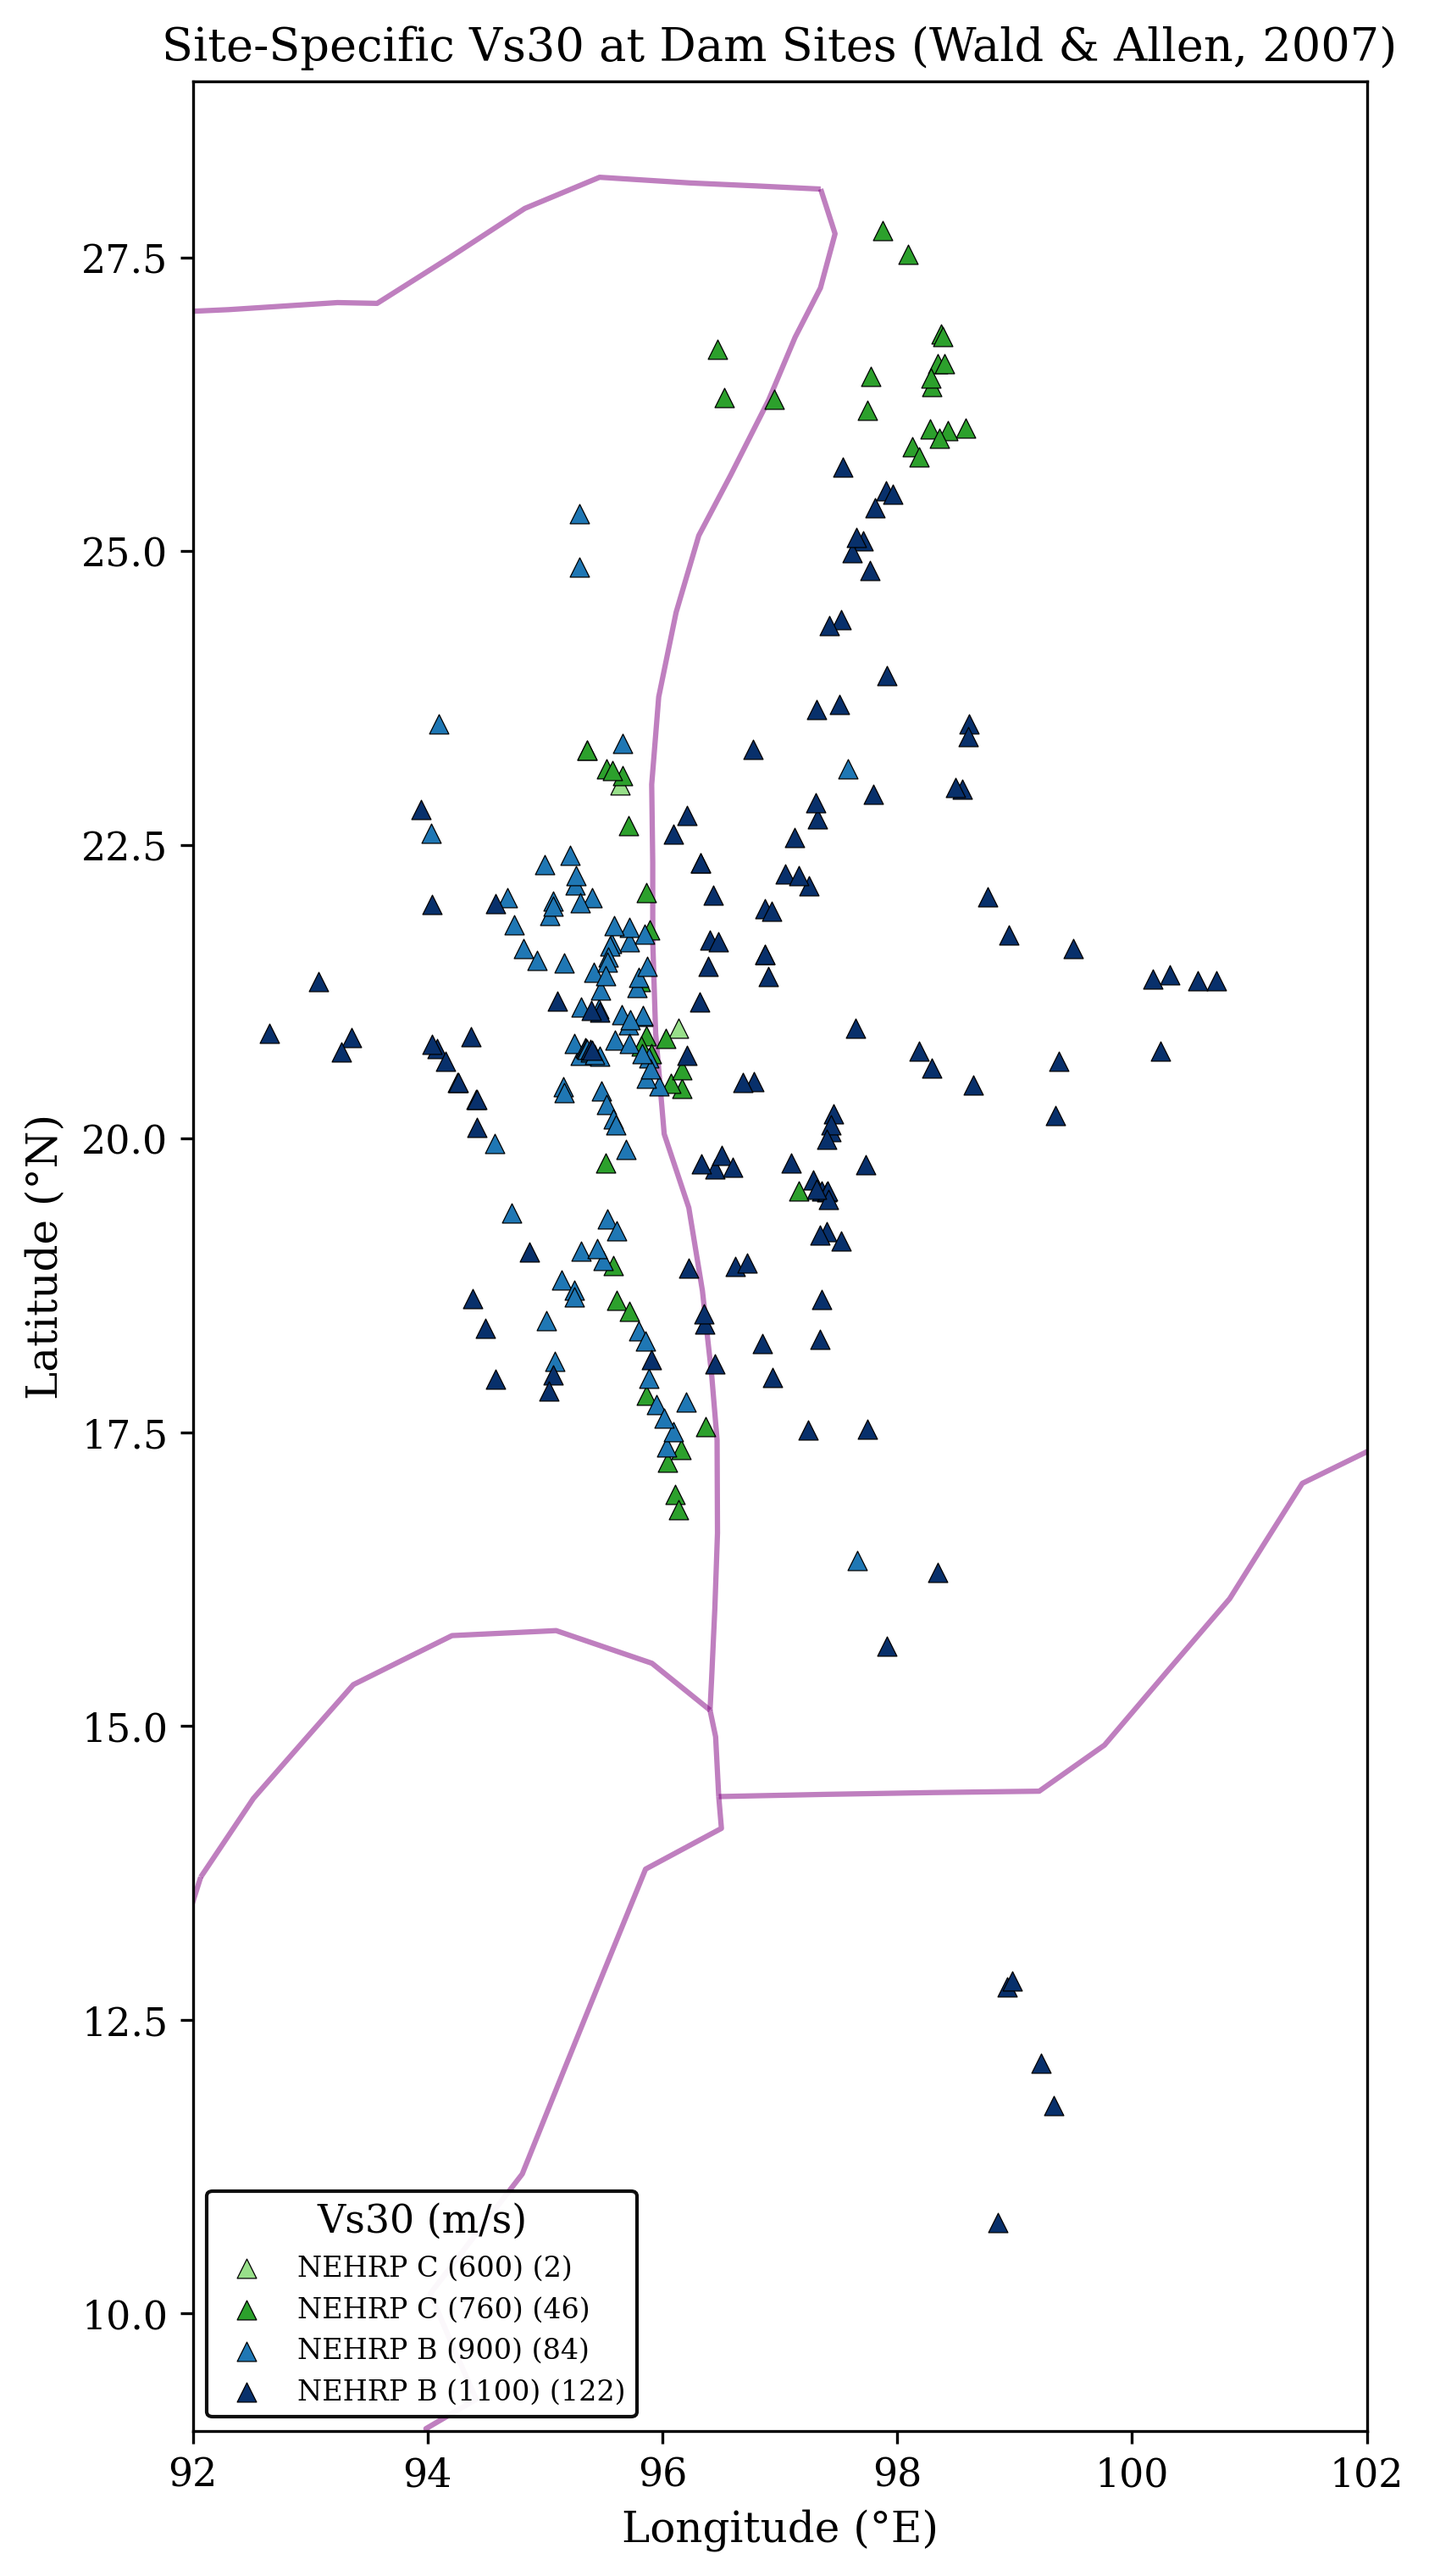
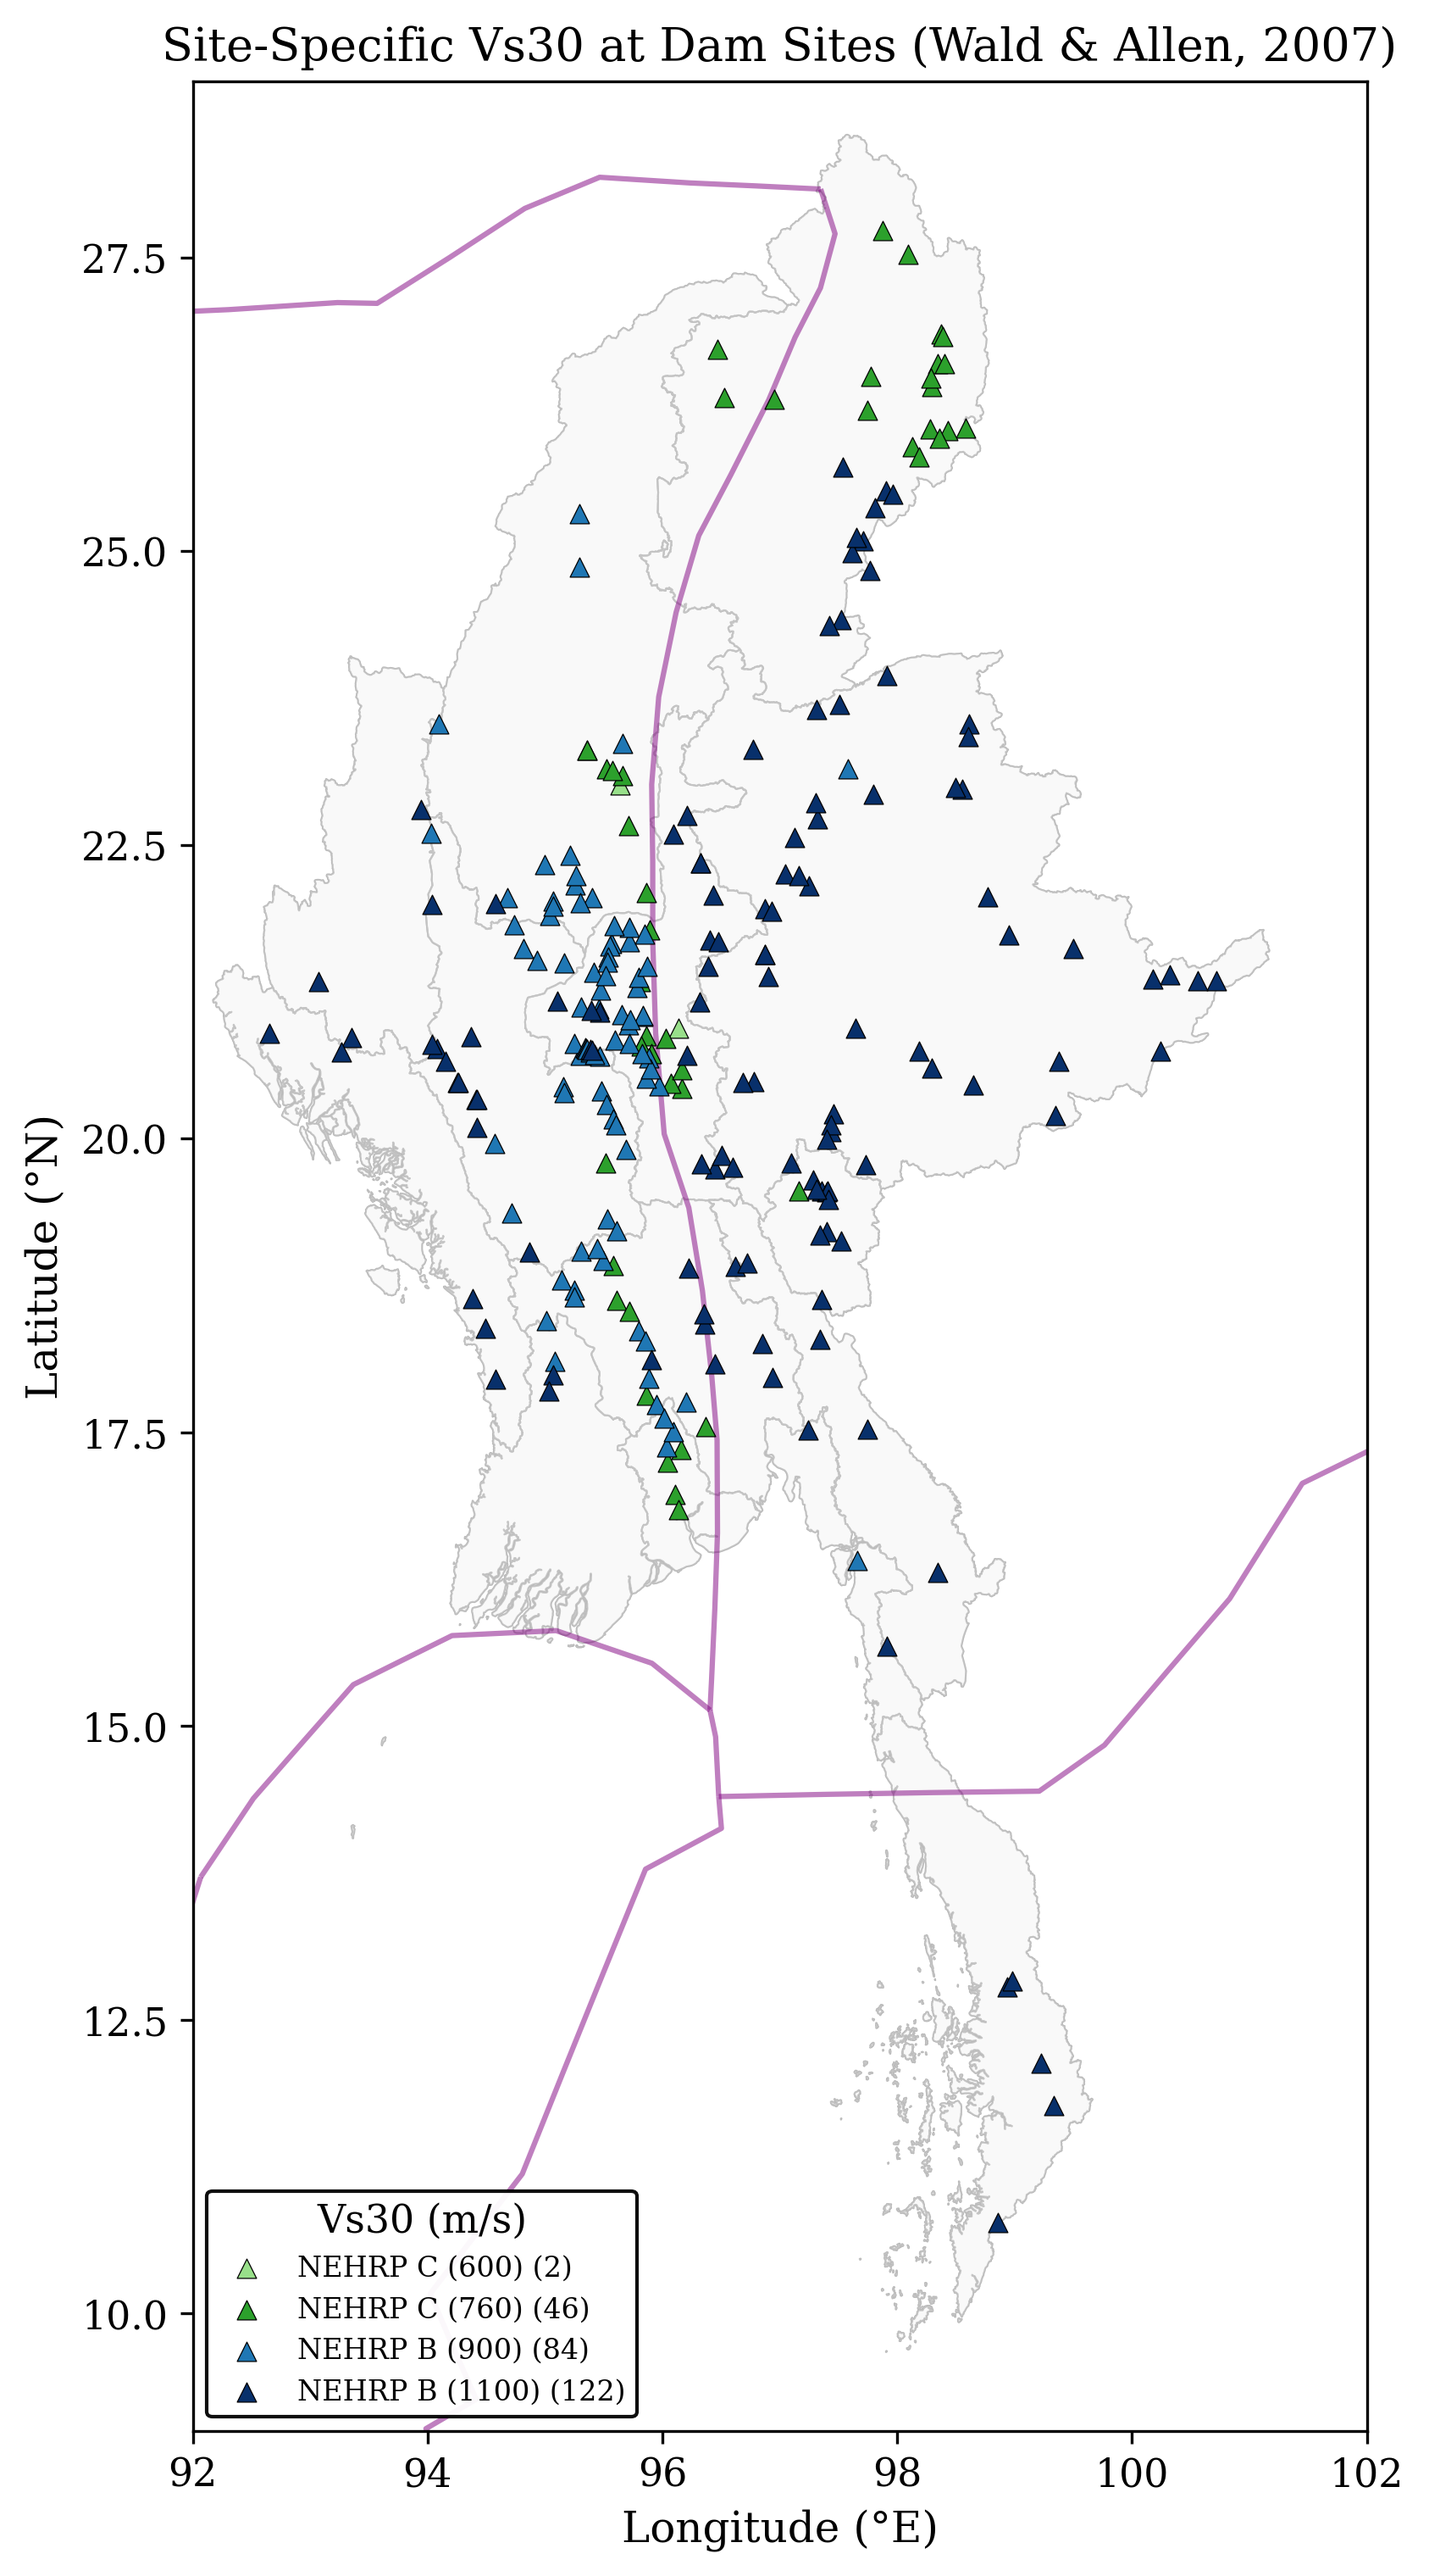
Add Myanmar state borders to all map figures
Country/state outlines from geoBoundaries ADM1 drawn as light grey
background on fig1, fig4, fig6, fig9, fig11. Maps now show geographic
context instead of floating data points.

diff --git a/generate_figures.py b/generate_figures.py
@@ -50,9 +50,24 @@ if os.path.exists("fault_lines.json"):
     faults = gpd.read_file("fault_lines.json")
     faults_clipped = faults.cx[92:102, 9:29]
 
+# Myanmar country border for map backgrounds
+myanmar_border = None
+_border_path = os.path.join("data", "admin", "mmr_admin1.geojson")
+if os.path.exists(_border_path):
+    import geopandas as gpd
+    myanmar_border = gpd.read_file(_border_path)
+
+
+def _add_border(ax):
+    """Add Myanmar state borders as light grey background to a map axis."""
+    if myanmar_border is not None:
+        myanmar_border.boundary.plot(ax=ax, color="#bbb", linewidth=0.5, zorder=0)
+        myanmar_border.plot(ax=ax, color="#f0f0f0", edgecolor="#bbb", linewidth=0.5, alpha=0.4, zorder=0)
+
 # ========== Figure 1: Study area map ==========
 fig, ax = plt.subplots(figsize=(10, 12))
 
+_add_border(ax)
 ax.scatter(df["longitude"], df["latitude"], s=df["mag"].clip(1)**1.8 * 2,
            c=df["depth"], cmap="RdYlBu_r", alpha=0.4, edgecolors="none",
            norm=Normalize(vmin=0, vmax=150), zorder=2)
@@ -193,6 +208,7 @@ print("Figure 3: Depth distribution")
 # ========== Figure 4: Dam risk map ==========
 fig, ax = plt.subplots(figsize=(10, 12))
 
+_add_border(ax)
 grade_colors = {"Critical": "#d62728", "High": "#ff7f0e", "Moderate": "#ffdd57", "Low": "#2ca02c"}
 for grade, color in grade_colors.items():
     sub = risk[risk["risk_grade"] == grade]
@@ -354,6 +370,7 @@ print("Figure 8: Dam types")
 # ========== Figure 9: Vs30 map ==========
 fig, ax = plt.subplots(figsize=(10, 12))
 
+_add_border(ax)
 vs30_data = pd.read_csv("report/dam_vs30.csv")
 vs30_colors_map = {290: "#d62728", 360: "#ff7f0e", 460: "#ffdd57", 600: "#98df8a",
                    760: "#2ca02c", 900: "#1f77b4", 1100: "#08306b"}
@@ -435,6 +452,7 @@ logging.basicConfig(level=logging.INFO)
 
 fig, ax = plt.subplots(figsize=(10, 12))
 
+_add_border(ax)
 grid_lats, grid_lons, dcfs_grid = compute_coulomb_grid(
     lat_min=17.0, lat_max=27.0, lon_min=93.5, lon_max=100.0, resolution=0.3
 )
